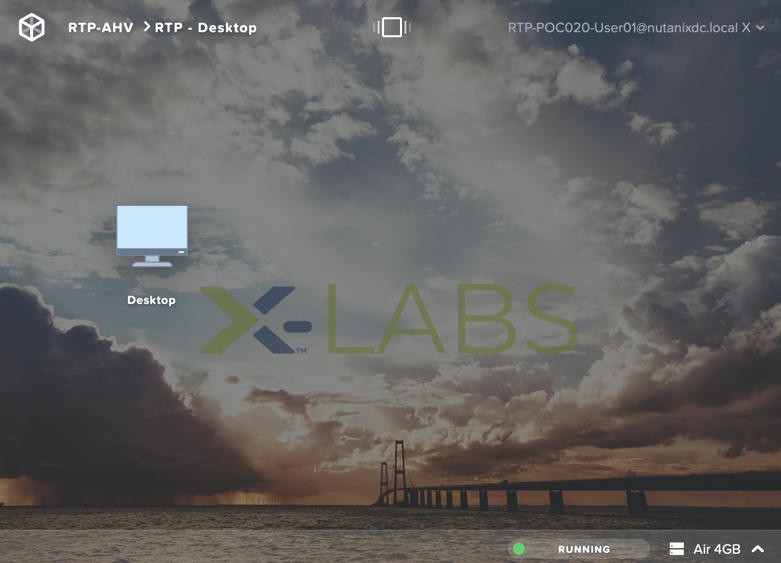
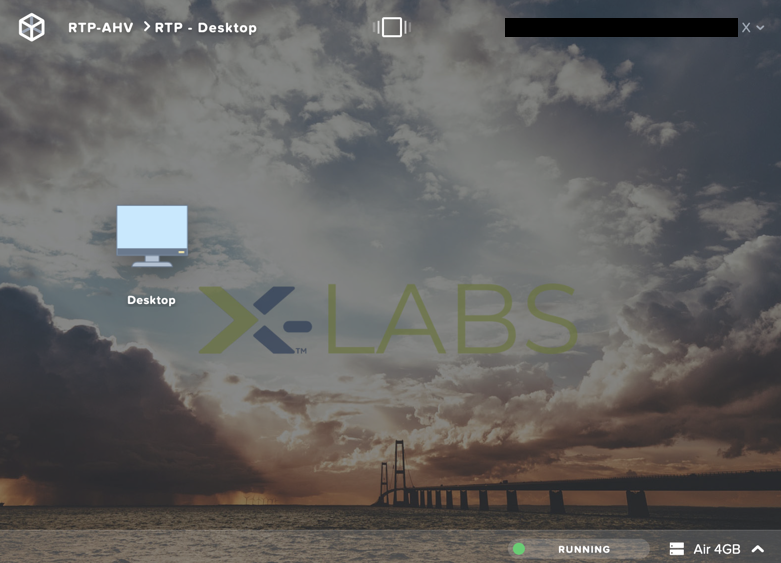
removing Frame creds

Changed region(s): [[0.6453, 0.0302, 0.9526, 0.0906]]

diff --git a/info/clusteraccess.rst b/info/clusteraccess.rst
@@ -67,7 +67,7 @@ Verify in `Your Cluster Details <http://10.55.14.75:8090/>`_ if you have been as
 Log into https://frame.nutanix.com/x/labs using the following credentials:
 
 - **Username** - Refer to `Your Cluster Details <http://10.55.14.75:8090/>`_ for your **Frame/Beam/VPN Username**
-- **Password** - techX2020!
+- **Password** - Refer to `Your Cluster Details <http://10.55.14.75:8090/>`_ for your **Frame/Beam/VPN Password**
 
 Accept the Nutanix Cloud Services Terms of Service.
 
